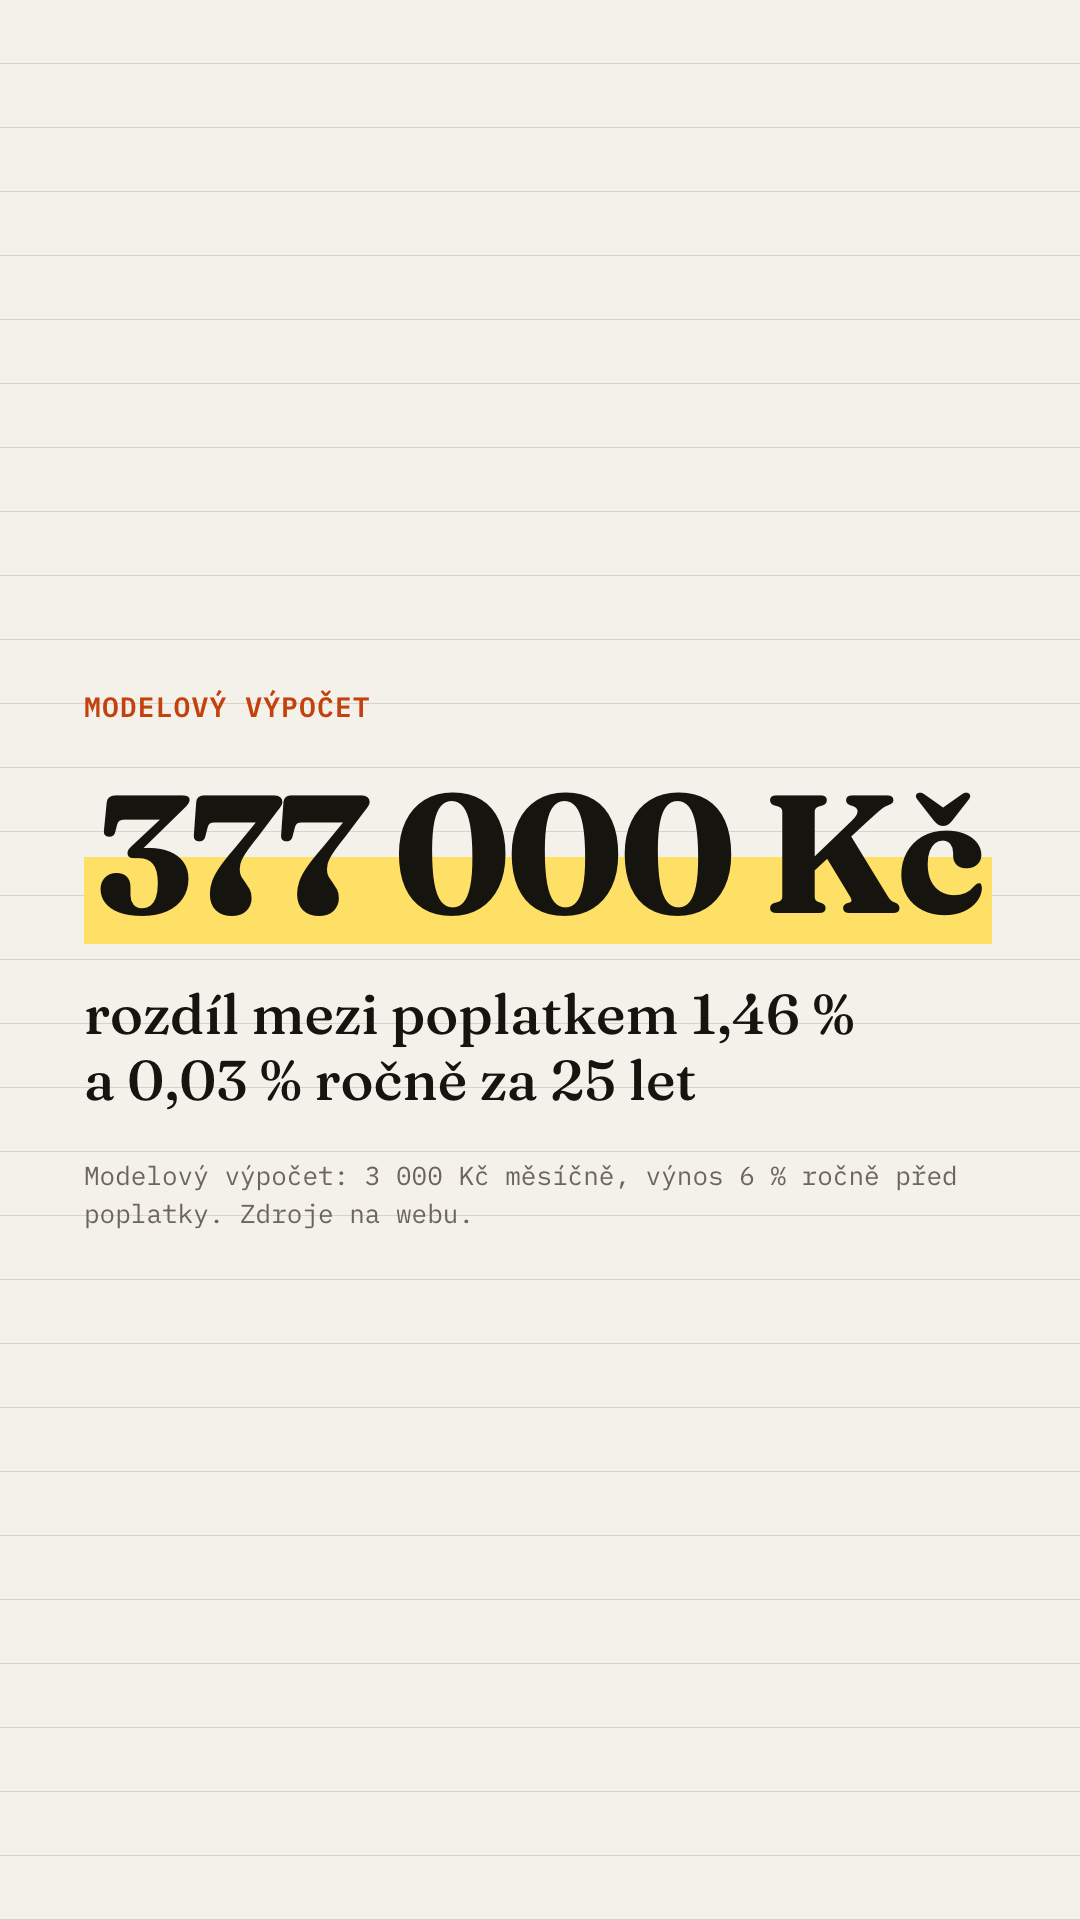
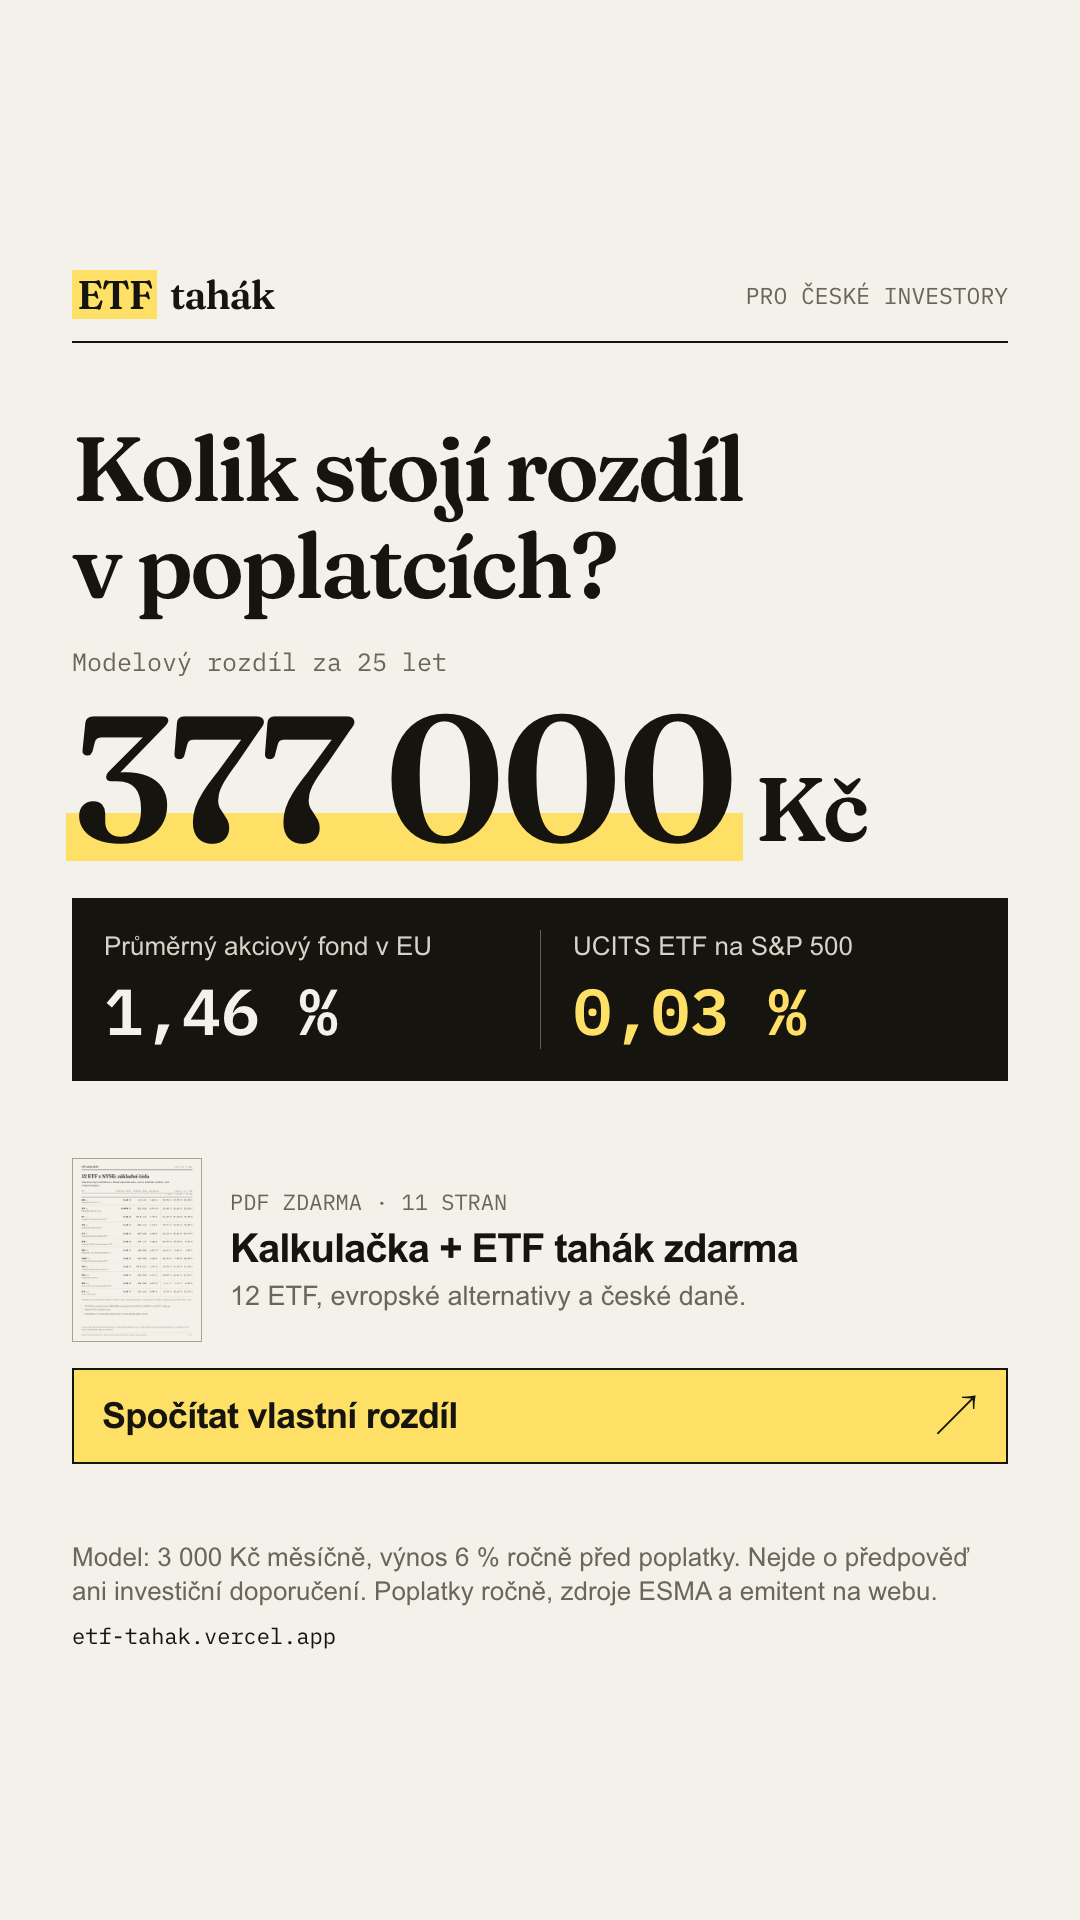
feat(ads): show real product value in polished mobile campaign creatives

diff --git a/ads/_src/ad.css b/ads/_src/ad.css
@@ -50,20 +50,58 @@
 
 * { box-sizing: border-box; margin: 0; padding: 0; }
 html, body { width: 1080px; background: var(--paper); color: var(--ink); }
-body { font-family: var(--serif); -webkit-font-smoothing: antialiased; overflow: hidden; }
-body.feed { height: 1350px; --pad-top: 90px; --pad-bottom: 90px; }
-/* Stories: horních a dolních ~250 px bez textu (překrývá je rozhraní Instagramu). */
-body.story { height: 1920px; --pad-top: 270px; --pad-bottom: 270px; }
-
-.ad {
-  height: 100%;
-  padding: var(--pad-top) 84px var(--pad-bottom);
-  display: flex;
-  flex-direction: column;
-  justify-content: center;
-  gap: 44px;
-  background-image: repeating-linear-gradient(to bottom, transparent 0 63px, var(--line) 63px 64px);
-}
+body { font-family: Arial, Helvetica, sans-serif; -webkit-font-smoothing: antialiased; overflow: hidden; }
+body.feed { height: 1350px; --safe-top: 76px; --safe-bottom: 70px; }
+/* Rozhraní Stories/Reels nesmí zakrýt značku, nabídku, výzvu ani podmínky. */
+body.story { height: 1920px; --safe-top: 270px; --safe-bottom: 270px; }
+.ad { height: 100%; padding: var(--safe-top) 72px var(--safe-bottom); display: flex; flex-direction: column; justify-content: space-between; gap: 26px; }
 .mono { font-family: var(--mono); font-variant-numeric: tabular-nums; }
-.fine { font-family: var(--mono); font-size: 26px; line-height: 1.45; color: var(--grey); }
-.hl { background: linear-gradient(transparent 52%, var(--marker) 52% 94%, transparent 94%); padding: 0 .06em; }
+.masthead { display: flex; align-items: center; justify-content: space-between; padding-bottom: 22px; border-bottom: 2px solid var(--ink); }
+.brand { font-family: var(--serif); font-size: 40px; font-weight: 600; letter-spacing: -.035em; }
+.brand span { background: var(--marker); padding: 0 5px; margin-right: 6px; }
+.edition { font-family: var(--mono); font-size: 23px; color: var(--grey); }
+.concept, .delivery { display: flex; flex-direction: column; gap: 26px; }
+.headline { font-family: var(--serif); font-size: 80px; line-height: 1.06; font-weight: 600; letter-spacing: -.035em; }
+.subhead { font-size: 34px; line-height: 1.25; max-width: 870px; }
+.result-label { font-family: var(--mono); font-size: 25px; color: var(--grey); margin-bottom: 10px; }
+.result-number { display: flex; align-items: baseline; gap: 20px; font-family: var(--serif); font-size: 160px; font-weight: 600; letter-spacing: -.02em; line-height: 1; }
+.headline sup { font-family: Arial, sans-serif; font-size: .38em; vertical-align: super; line-height: 0; }
+.result-number .amount { position: relative; isolation: isolate; }
+.result-number .amount::after { content: ''; position: absolute; z-index: -1; left: -6px; right: -8px; bottom: 5px; height: 48px; background: var(--marker); }
+.currency { font-size: 82px; letter-spacing: -.04em; }
+.costs { display: grid; grid-template-columns: 1fr 1fr; padding: 26px 32px; background: var(--ink); color: var(--paper); }
+.costs > div + div { border-left: 1px solid #625e52; padding-left: 32px; }
+.cost-label { font-size: 26px; line-height: 1.25; color: #d9d3c7; }
+.cost-value { font-family: var(--mono); font-size: 58px; font-weight: 600; line-height: 1.15; margin-top: 12px; }
+.cost-value.etf { color: var(--marker); }
+.product { display: flex; align-items: center; gap: 28px; }
+.product img { display: block; width: 106px; height: 150px; object-fit: cover; border: 1px solid #aaa395; flex: none; }
+.product-label { font-family: var(--mono); font-size: 22px; color: var(--grey); margin-bottom: 9px; }
+.product-title { font-size: 37px; line-height: 1.16; font-weight: 600; letter-spacing: -.025em; }
+.product-detail { font-size: 27px; line-height: 1.25; color: var(--grey); margin-top: 9px; }
+.cta { display: flex; justify-content: space-between; align-items: center; min-height: 86px; padding: 19px 28px; border: 2px solid var(--ink); background: var(--marker); font-size: 33px; font-weight: 600; letter-spacing: -.02em; }
+.cta .arrow { font-size: 44px; font-weight: 400; line-height: 1; }
+.fine { font-size: 26px; line-height: 1.3; color: var(--grey); }
+.domain { font-family: var(--mono); font-size: 22px; margin-top: 12px; color: var(--ink); }
+.comparison { background: var(--ink); color: var(--paper); padding: 25px 32px 27px; }
+.comparison-head { display: grid; grid-template-columns: 1fr 70px 1fr; color: #c8c2b5; font-size: 22px; padding-bottom: 14px; border-bottom: 1px solid #625e52; }
+.comparison-head span:last-child { grid-column: 3; }
+.comparison-row { display: grid; grid-template-columns: 1fr 70px 1fr; align-items: center; padding-top: 24px; }
+.comparison-row + .comparison-row { padding-top: 20px; }
+.ticker { font-family: var(--mono); font-size: 65px; font-weight: 600; line-height: 1; }
+.ticker.eu { color: var(--marker); }
+.comparison-arrow { font-size: 40px; color: #c8c2b5; }
+.comparison-note { border-top: 1px solid #625e52; margin-top: 24px; padding-top: 16px; font-size: 25px; color: #d9d3c7; }
+body.story .ad { gap: 30px; }
+body.story .concept { gap: 32px; }
+body.story .headline { font-size: 91px; }
+body.story .result-number { font-size: 178px; }
+body.story .currency { font-size: 90px; }
+body.story .costs { padding-top: 32px; padding-bottom: 32px; }
+body.story .cost-value { font-size: 65px; }
+body.story .product img { width: 130px; height: 184px; }
+body.story .product-title { font-size: 40px; }
+body.story .cta { min-height: 96px; font-size: 36px; }
+body.story .comparison { padding-top: 32px; padding-bottom: 32px; }
+body.story .comparison-row { padding-top: 30px; }
+body.story .ticker { font-size: 79px; }

diff --git a/ads/_src/b.html b/ads/_src/b.html
@@ -1,22 +1,24 @@
 <!doctype html>
 <html lang="cs"><head><meta charset="utf-8"><title>B – VOO</title>
 <link rel="stylesheet" href="ad.css">
-<style>
-  .board { background: var(--ink); color: var(--paper); padding: 36px 44px 130px; position: relative; }
-  .row { display: flex; align-items: baseline; justify-content: space-between; border-bottom: 2px solid #3a382f; padding: 20px 0; }
-  .row:last-child { border-bottom: 0; }
-  .t { font-family: var(--mono); font-weight: 600; font-size: 118px; line-height: 1; letter-spacing: .02em; }
-  .x { font-family: var(--mono); font-size: 30px; color: #b8b2a3; text-transform: uppercase; letter-spacing: .06em; }
-  body.feed .t { font-size: 104px; }
-  .stamp { position: absolute; right: -14px; bottom: -34px; transform: rotate(-5deg); border: 6px solid var(--loss); color: var(--loss); background: var(--paper);
-    font-family: var(--mono); font-weight: 600; font-size: 44px; padding: 14px 26px; text-transform: uppercase; letter-spacing: .03em; }
-  .cta { font-size: 64px; line-height: 1.15; font-weight: 600; margin-top: 30px; }
-</style></head>
+</head>
 <body class="{{format}}"><main class="ad">
-  <div class="board">
-    {{rows}}
-    <p class="stamp">{{stamp}}</p>
-  </div>
-  <p class="cta"><span class="hl">{{cta}}</span></p>
-  <p class="fine">{{fine}}</p>
+  <header class="masthead"><p class="brand"><span>ETF</span> tahák</p><p class="edition">PRO ČESKÉ INVESTORY</p></header>
+  <section class="concept">
+    <h1 class="headline">{{headline}}<sup>*</sup></h1>
+    <p class="subhead">{{subhead}}</p>
+    <div class="comparison">
+      <div class="comparison-head"><span>{{usLabel}}</span><span>{{euLabel}}</span></div>
+      {{rows}}
+      <p class="comparison-note">{{comparisonNote}}</p>
+    </div>
+  </section>
+  <section class="delivery">
+    <div class="product">
+      <img src="../../public/tahak/preview-twins.png" alt="Skutečná strana taháku s evropskými alternativami">
+      <div><p class="product-label">PDF ZDARMA · {{pages}} STRAN</p><p class="product-title">{{offer}}</p><p class="product-detail">{{offerDetail}}</p></div>
+    </div>
+    <p class="cta"><span>{{cta}}</span><span class="arrow">↗</span></p>
+  </section>
+  <footer><p class="fine">{{fine}}</p><p class="domain">etf-tahak.vercel.app</p></footer>
 </main></body></html>

diff --git a/ads/_src/a.html b/ads/_src/a.html
@@ -1,15 +1,26 @@
 <!doctype html>
 <html lang="cs"><head><meta charset="utf-8"><title>A – Poplatky</title>
 <link rel="stylesheet" href="ad.css">
-<style>
-  .num { font-size: 168px; line-height: 1; font-weight: 700; letter-spacing: -.03em; white-space: nowrap; }
-  body.story .num { font-size: 168px; }
-  .lead { font-size: 56px; line-height: 1.18; font-weight: 500; max-width: 15em; }
-  .tag { font-family: var(--mono); font-size: 28px; letter-spacing: .04em; text-transform: uppercase; color: var(--loss); font-weight: 600; }
-</style></head>
+ </head>
 <body class="{{format}}"><main class="ad">
-  <p class="tag">modelový výpočet</p>
-  <p class="num serif"><span class="hl">{{bigNumber}}</span></p>
-  <p class="lead">{{caption}}</p>
-  <p class="fine">{{fine}}</p>
+  <header class="masthead"><p class="brand"><span>ETF</span> tahák</p><p class="edition">PRO ČESKÉ INVESTORY</p></header>
+  <section class="concept">
+    <h1 class="headline">{{headline}}</h1>
+    <div>
+      <p class="result-label">{{resultLabel}}</p>
+      <p class="result-number"><span class="amount">{{amount}}</span><span class="currency">Kč</span></p>
+    </div>
+    <div class="costs">
+      <div><p class="cost-label">{{fundLabel}}</p><p class="cost-value">{{fundTer}}</p></div>
+      <div><p class="cost-label">{{etfLabel}}</p><p class="cost-value etf">{{etfTer}}</p></div>
+    </div>
+  </section>
+  <section class="delivery">
+    <div class="product">
+      <img src="../../public/tahak/preview-compare.png" alt="Skutečná strana ETF taháku">
+      <div><p class="product-label">PDF ZDARMA · {{pages}} STRAN</p><p class="product-title">{{offer}}</p><p class="product-detail">{{offerDetail}}</p></div>
+    </div>
+    <p class="cta"><span>{{cta}}</span><span class="arrow">↗</span></p>
+  </section>
+  <footer><p class="fine">{{fine}}</p><p class="domain">etf-tahak.vercel.app</p></footer>
 </main></body></html>

diff --git a/ads/ads.test.ts b/ads/ads.test.ts
@@ -2,6 +2,7 @@ import { readFileSync } from "node:fs";
 import path from "node:path";
 import { describe, expect, it } from "vitest";
 import { N, hero } from "@/content";
+import { etfsData } from "@/content/data";
 import { NBSP } from "@/lib/format";
 
 const read = (dir: string) =>
@@ -47,6 +48,30 @@ describe("reklamy", () => {
   it("čísla v B shodná s daty", () => {
     expect(b).toContain(`U ${N.exactTwins} z ${N.etfCount}`);
     expect(b).toContain(`dalších ${N.similarTwins}`);
+  });
+
+  it("ukázka B používá skutečná evropská dvojčata se stejným indexem a listingem", () => {
+    const pairs = field(b, "Ukázka").split("·");
+    expect(pairs).toHaveLength(2);
+    for (const pair of pairs) {
+      const [ticker, id] = pair.split("→").map((x) => x.trim());
+      const etf = etfsData.etfs.find((e) => e.ticker === ticker);
+      const fund = etf?.ucits_twin.funds.find((f) => f.id === id);
+      expect(etf?.ucits_twin.match).toBe("exact");
+      expect(fund?.index.value).toBe(etf?.index.value);
+      expect(fund?.listings.xetra).toBeTruthy();
+      expect(fund?.ter_pct.verified).not.toBe(false);
+    }
+  });
+
+  it("obě kreativy mají vlastní nabídku a výzvu i bez primárního textu", () => {
+    for (const md of [a, b]) {
+      expect(field(md, "Nabídka")).toContain("tahák");
+      expect(field(md, "Výzva").length).toBeGreaterThan(10);
+      expect(field(md, "Detail nabídky")).toContain("daně");
+      expect(field(md, "Pokračování primárního textu")).toContain("e-mailu");
+    }
+    expect(field(b, "Pokračování primárního textu")).toContain(`${N.pdfPages} stran`);
   });
 
   it("nemá zakázané fráze ani osobní oslovení", () => {

diff --git a/ads/B-voo/copy.md b/ads/B-voo/copy.md
@@ -5,18 +5,26 @@
 ## Texty
 
 - **Primární text:** Drobní investoři v EU VOO u běžného brokera obvykle nekoupí. Srovnali jsme 12 ETF z NYSE a našli evropské alternativy.
-- **Pokračování primárního textu:** U 4 z 12 existuje evropské dvojče se stejným indexem, u dalších 6 podobná alternativa. S poplatky, výnosy v korunách a českými daněmi. Zdarma.
+- **Pokračování primárního textu:** U 4 z 12 existuje evropské dvojče se stejným indexem, u dalších 6 podobná alternativa. Zjistěte, v čem se liší, kolik stojí a jak se daní v Česku. Tahák má 11 stran a stáhnete ho hned po zadání e-mailu.
 - **Titulek:** 12 ETF z NYSE: co koupíte z Česka
 - **Popis:** Srovnání + tahák zdarma
 - **Tlačítko:** Zjistit více
 
 ## Kreativa (text v obrázku)
 
-- **Tabule:** VOO · SPY · VTI · SCHD jako burzovní tabule.
-- **Razítko:** z ČR běžně nekoupíte*
-- **Výzva:** Tady je, co místo nich →
-- **Drobně:** * Drobní investoři u běžného brokera v EU. Nejde o investiční doporučení. Zdroje na webu.
-- **Formáty:** feed 1080×1350, story 1080×1920 (horních a dolních ~250 px bez textu).
+- **Nadpis:** VOO z Česka běžně nekoupíte.
+- **Podnadpis:** Evropské alternativy najdete v taháku.
+- **Sloupec USA:** Americké ETF
+- **Sloupec Evropa:** Evropská alternativa
+- **Ukázka:** VOO → SPYL · SPY → VUAA
+- **Poznámka srovnání:** Stejný index S&P 500. Evropské fondy UCITS.
+- **Nabídka:** 12 ETF. Jeden český tahák.
+- **Detail nabídky:** Poplatky, evropské alternativy a české daně.
+- **Výzva:** Získat tahák zdarma
+- **Drobně:** * Jako drobný investor u běžného brokera v EU. Ukázky alternativ, ne investiční doporučení. Dostupnost ověřte u brokera. Zdroje na webu.
+- **Formáty:** feed 1080×1350, story 1080×1920; ve Stories je horních a dolních 270 px bez obsahu.
+
+Ukázka ukazuje dvě konkrétní dvojice s přesnou shodou indexu, ne doporučené portfolio. Tickery se generují z ověřených listingů na Xetře. Miniatura je skutečná strana taháku. Záměr: doložit hodnotu ještě v reklamě a zároveň říct, že celý přehled je zdarma za e-mail. Nemícháme do jedné ukázky přesná dvojčata a pouze podobné fondy.
 
 ## Náhledy
 
@@ -32,7 +40,7 @@ Znovu vygenerujete příkazem `npm run ads` (šablony v `ads/_src/`, texty z toh
 
 ## Návaznost na hero
 
-Hero na `/srovnani` má stejnou tabuli tickerů a větu (viz `src/content/hero.ts`):
+Hero na `/srovnani` navazuje stejným problémem a nabízí celý přehled (viz `src/content/hero.ts`):
 „VOO, SPY, VTI. Z Česka je běžně nekoupíte. Tady je, co místo nich.“ Pod ní je srovnání.
 
 ## Kontrola zásad Mety

diff --git a/ads/A-poplatky/copy.md b/ads/A-poplatky/copy.md
@@ -5,17 +5,25 @@
 ## Texty
 
 - **Primární text:** Rozdíl mezi poplatkem 1,46 % a 0,03 % ročně? Za 25 let 377 000 Kč. Modelový výpočet, spočítejte si to na svých číslech.
-- **Pokračování primárního textu:** Při 3 000 Kč měsíčně a výnosu 6 % ročně před poplatky. Stáhněte si srovnání 12 ETF z newyorské burzy: co z nich koupíte z Česka a jak je danit. Zdarma.
+- **Pokračování primárního textu:** Při 3 000 Kč měsíčně a výnosu 6 % ročně před poplatky. Přepočítejte si rozdíl na svých číslech. K tomu ETF tahák zdarma: 12 fondů z NYSE, evropské alternativy a české daně. Stažení hned po zadání e-mailu.
 - **Titulek:** Kolik stojí poplatek 1,46 % ročně?
 - **Popis:** Kalkulačka + tahák zdarma
 - **Tlačítko:** Stáhnout
 
 ## Kreativa (text v obrázku)
 
+- **Nadpis:** Kolik stojí rozdíl v poplatcích?
 - **Velké číslo:** 377 000 Kč
-- **Řádek pod číslem:** rozdíl mezi poplatkem 1,46 % a 0,03 % ročně za 25 let
-- **Drobně:** Modelový výpočet: 3 000 Kč měsíčně, výnos 6 % ročně před poplatky. Zdroje na webu.
-- **Formáty:** feed 1080×1350, story 1080×1920 (horních a dolních ~250 px bez textu).
+- **Popisek výsledku:** Modelový rozdíl za 25 let
+- **Fond:** Průměrný akciový fond v EU
+- **ETF:** UCITS ETF na S&P 500
+- **Nabídka:** Kalkulačka + ETF tahák zdarma
+- **Detail nabídky:** 12 ETF, evropské alternativy a české daně.
+- **Výzva:** Spočítat vlastní rozdíl
+- **Drobně:** Model: 3 000 Kč měsíčně, výnos 6 % ročně před poplatky. Nejde o předpověď ani investiční doporučení. Poplatky ročně, zdroje ESMA a emitent na webu.
+- **Formáty:** feed 1080×1350, story 1080×1920; ve Stories je horních a dolních 270 px bez obsahu.
+
+Číslo, obě sazby a počet stran doplňuje generátor přímo z dat. Miniatura je skutečná strana PDF, ne ilustrační maketa. Tmavý blok ukazuje, které poplatky model srovnává; žlutá výzva říká, co má návštěvník udělat. Text v obrázku funguje i bez rozkliknutí dlouhého primárního textu.
 
 ## Náhledy
 
